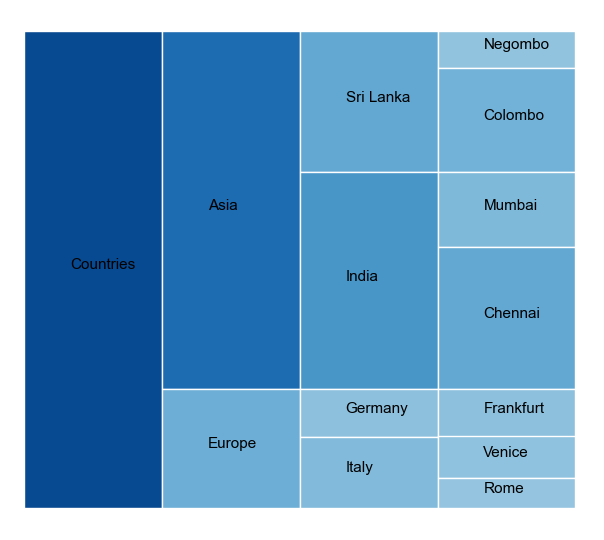
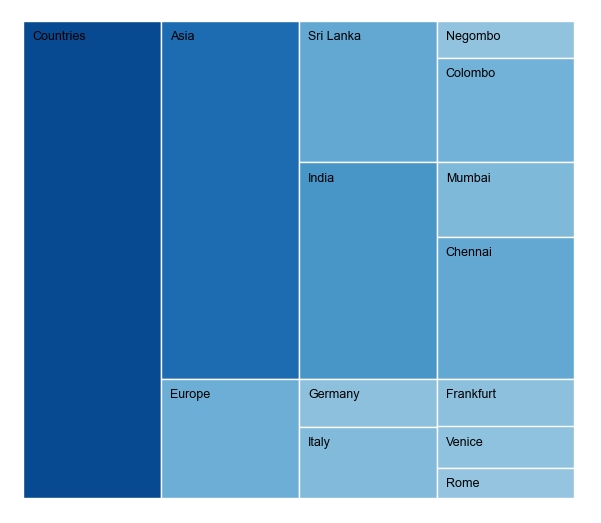
change text position of nodes

diff --git a/chart/icicle.py b/chart/icicle.py
@@ -180,9 +180,9 @@ class Icicle(BaseChart):
                 # update the main array with coordinates
                 self.data_set[keys[index]] = [item[0], item[1], start_x, start_y, self._width, height]
                 # add text into the rectangle
-                self.ax.text(start_x + self._width / 3, start_y + height / 2, keys[index],
-                             color='black', fontsize=self.chart_properties["chart_font_size"],
-                             fontfamily=self.chart_properties["chart_font_family"])
+                self.ax.text(start_x  + 0.1, start_y +height -  0.8, keys[index],
+                             color='black', fontsize=self.chart_properties["chart_font_size"] if self.chart_properties["chart_font_size"] else 9,
+                             fontfamily=self.chart_properties["chart_font_family"] if self.chart_properties["chart_font_family"] else 'Arial')
 
                 index += 1
 
@@ -198,7 +198,8 @@ class Icicle(BaseChart):
         color = self.__calculate_color(self.data_set[keys[0]][0])
         self.__add_rectangle(0, 0, self._width, self._maxHeight, color)
 
-        self.ax.text(self._width / 3, self._maxHeight / 2, keys[0], color='black', fontsize=self.chart_properties["chart_font_size"],fontfamily=self.chart_properties["chart_font_family"])
+        self.ax.text(0 + 0.1, self._maxHeight - 0.8, keys[0], color='black', fontsize=self.chart_properties["chart_font_size"] if self.chart_properties["chart_font_size"] else 9,
+                             fontfamily=self.chart_properties["chart_font_family"] if self.chart_properties["chart_font_family"] else 'Arial')
 
         # update the list with width and height of the element
         self.data_set[keys[0]] = (self.data_set[keys[0]][0], self.data_set[keys[0]][1], 0, 0, 2, 20)
